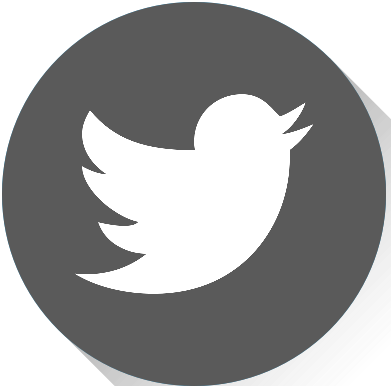
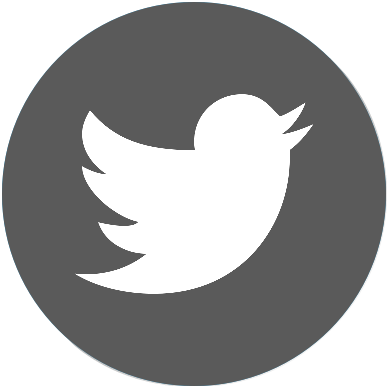
Homepage finished.

Changed region(s): [[0.89, 0.2176, 1.0, 0.5596], [0.2148, 0.9016, 0.4297, 1.0]]

diff --git a/index.html b/index.html
@@ -5,19 +5,68 @@
     <meta charset="utf-8">
     <title>Evin Grost</title>
     <link rel="stylesheet" href="styles.css">
+    <link href="https://fonts.googleapis.com/css?family=Source+Sans+Pro:300" rel="stylesheet">
+    <link href="https://fonts.googleapis.com/css?family=Heebo:100" rel="stylesheet">
+    <link href="https://fonts.googleapis.com/css?family=Roboto" rel="stylesheet">
+    <link href="https://fonts.googleapis.com/css?family=Roboto:300" rel="stylesheet">
+    <link href="https://fonts.googleapis.com/css?family=Lato" rel="stylesheet">
     </head>
     
     <body>
     
         <div class="header">
-            <h1>Evin Grost</h1>
-            <h4>Student at OCS</h4>
+            <h1>EVIN GROST</h1>
+            <h4>Student @ OCS</h4>
         </div>
 
         <div class="menu">
-            <a href="#" id="twitterIcon"><img src="/images/twitter_gray.png"></a>
-            <a href="#" id="gitIcon"><img src="/images/github_gray.png"></a>
-            <a href="#" id="linkedIcon"><img src="/images/linkedin_gray.png"></a>
+            <div class="icons">
+                <a href="#" id="twitterIcon"><img src="images/twitter_gray.png" onmouseover="this.src='images/twitter_rollover.png'" onmouseout="this.src='images/twitter_gray.png'"></a>
+                <a href="#" id="gitIcon"><img src="images/github_gray.png" onmouseover="this.src='images/github_rollover.png'" onmouseout="this.src='images/github_gray.png'"></a>
+                <a href="#" id="linkedIcon"><img src="images/linkedin_gray.png" onmouseover="this.src='images/linkedin_rollover.png'" onmouseout="this.src='images/linkedin_gray.png'"></a>
+            </div>
+            <div class="shortcuts">
+                <a href="#">ARTICLES</a>
+                <a href="#">ABOUT</a>
+            </div>
+        </div>
+        <div class="pageContent">
+            <div class="pageTitle">
+                <h2>RECENT ARTICLES</h2>
+            </div>
+            <div class="articleInformation">
+                <div class="date">
+                    September 27, 2016
+                </div>
+                <div class="articleTitle"><a href="#">
+                    Loading Polyfills Only When Needed
+                </a></div>
+                <div class="articleSummary">
+                    New JavaScript and HTML features are being introduced all the time that make our lives as developers easier. In many cases, these new features are so helpful we choose to use them...
+                </div>
+            </div>
+            <div class="articleInformation">
+                <div class="date">
+                    August 17, 2016
+                </div>
+                <div class="articleTitle"><a href="#">
+                    Untangling Deeply-Nested Promise Chains
+                </a></div>
+                <div class="articleSummary">
+                    If you've been writing JavaScript for a while, you've probably heard terms like callback hell or the pyramid of doom. When promises were added to JavaScript a few years ago, I...
+                </div>
+            </div>
+            <div class="articleInformation">
+                <div class="date">
+                    July 10, 2016
+                </div>
+                <div class="articleTitle"><a href="#">
+                    Learning How to Set Up Automated, Cross-browser JavaScript Unit Testing
+                </a></div>
+                <div class="articleSummary">
+                    We all know how important it is to test our code in multiple browsers. And I think for the most part, we in the web development community do a pretty good job...
+                </div>
+            </div>
         </div>
     <footer class="footerclass">
     </footer>

diff --git a/styles.css b/styles.css
@@ -1,0 +1,150 @@
+html {
+  box-sizing: border-box;
+  margin:0;
+}
+*, *:before, *:after {
+  box-sizing: inherit;
+}
+
+body {
+	background-color: #f9f9f9;
+	margin:0;
+	padding: 0;
+}
+
+.header {
+	position: relative;
+	background-color: #424242;
+	box-shadow: 0px 2px 2px #9b9b9b;
+	color: #d8d8d8;
+	padding-top: 5px;
+	padding-bottom: 5px;
+	padding-left: 20px;
+}
+
+.header h1 {
+	color: #f9f9f9;
+	line-height: 0.8em;
+	font-family: 'Source Sans Pro', sans-serif;
+	font-weight: 200;
+	margin-bottom: 15px;
+	font-size: 1.8em;
+	letter-spacing: 1px;
+}
+
+.header h4 {
+	line-height: 0.2em;
+	font-family: 'Heebo', sans-serif;
+	font-weight: 100;
+	padding: 0;
+	margin-top: 0;
+	font-size: 0.8em;
+	letter-spacing: 1px;
+	color: #afafaf;
+}
+
+.menu {
+	color: #424242;
+	background-color: #d8d8d8;
+	box-shadow: 0px 3px 7px #c1c1c1;
+	display: flex;
+}
+
+.icons {
+	padding-top: 15px;
+	padding-bottom: 13px;
+	margin-left: 20px;
+	margin-right: 20px;
+	justify-content: space-around;
+}
+
+.icons img {
+	width: 25px;
+	margin: 5px;
+	opacity: 0.4;
+}
+
+.icons img:hover {
+	opacity: 1;
+}
+
+.shortcuts {
+	position: absolute;
+	align-self: center;
+	right: 20px;
+}
+
+.shortcuts a {
+	text-decoration: none;
+	font-family: 'Roboto', sans-serif;
+	letter-spacing: 1px;
+	color: #424242;
+	font-size: 0.9em;
+	margin: 0px 10px 5px 7px;
+}
+
+.shortcuts a:hover {
+	color: #006b47;
+}
+
+.pageContent {
+	padding: 20px;
+	padding-left: 25px;
+	padding-right: 25px;
+}
+
+.pageTitle h2 {
+	color: #aaaaaa;
+	font-family: 'Roboto', sans-serif;
+	font-weight: 300;
+	font-size: 0.8em;
+	letter-spacing: 2px;
+	line-height: 1.2em;
+	margin: 0;
+	padding-bottom: 25px;
+	padding-top: 20px;
+	border-bottom: solid 1px #ededed;
+}
+
+/*.articleInformation {
+
+}*/
+
+.date {
+	font-family: 'Roboto', sans-serif;
+	font-weight: 100;
+	font-size: 0.8em;
+	line-height: 3em;
+	color: #b2b2b2;
+	padding-top: 25px;
+	padding-bottom: 10px;
+}
+
+.articleTitle a {
+	font-family: 'Lato', sans-serif;
+	font-size: 1.7em;
+	color: #424242;
+	padding-top: 10px;
+	text-decoration: none;
+}
+
+.articleSummary {
+	font-family: 'Roboto', sans-serif;
+	font-weight: 100;
+	font-size: 0.9em;
+	line-height: 1.5em;
+	color: #b2b2b2;
+	padding-top: 15px;
+	padding-bottom: 40px;
+	border-bottom: solid 1px #ededed;
+	text-decoration: none;
+}
+
+
+
+
+
+
+
+
+
